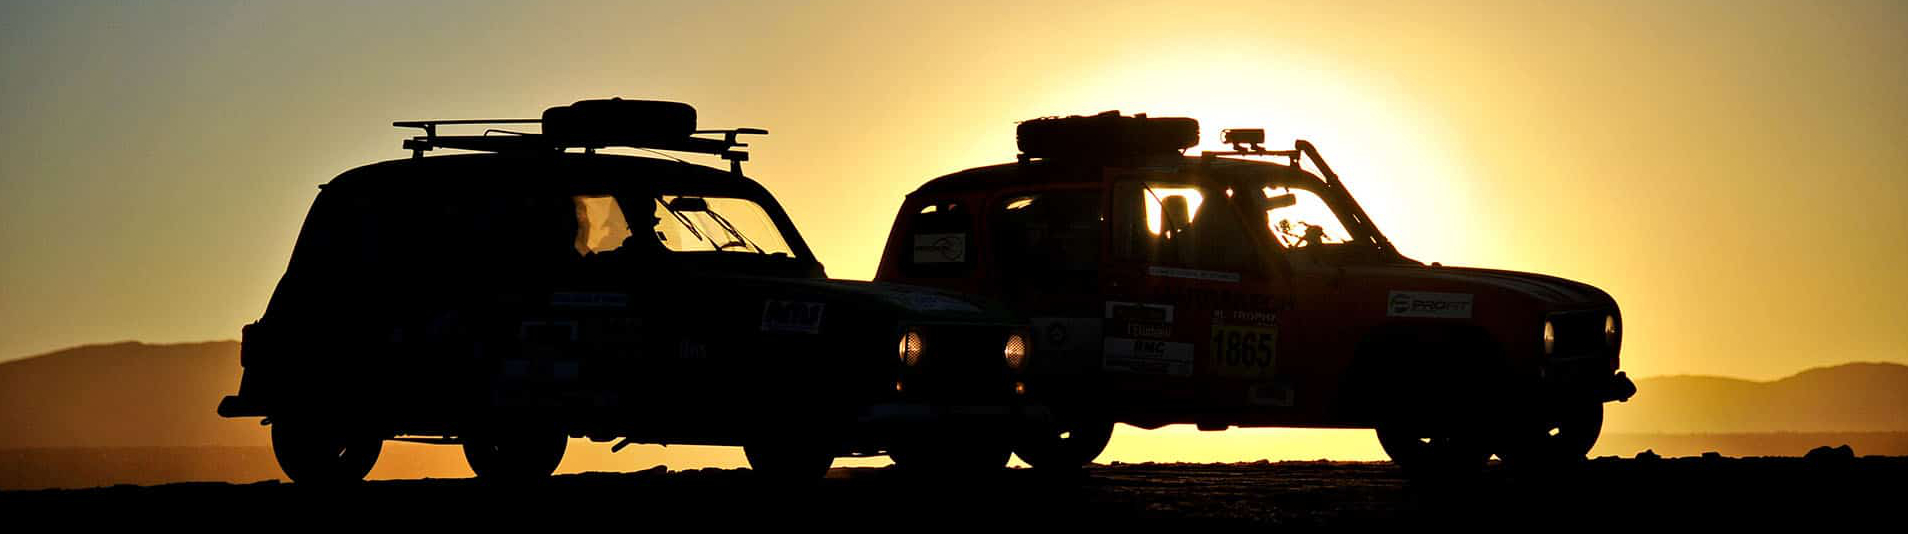
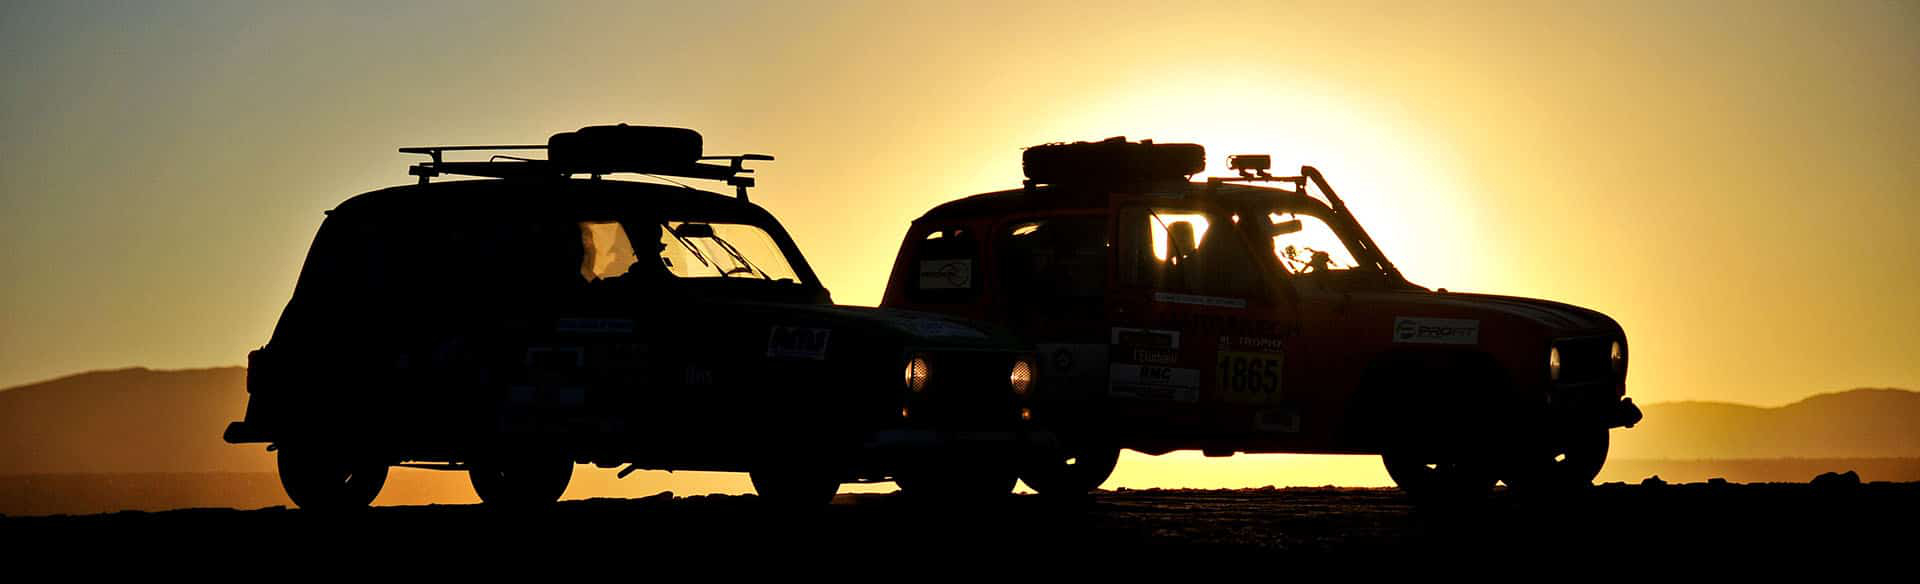
correction pb image transition

diff --git a/src/css/index.css b/src/css/index.css
@@ -114,7 +114,7 @@
 }
 
 .transition img{
-    width: 719px;
+    width: 50%;
     height: 100%;
 }
 
@@ -133,7 +133,6 @@
 
 .race {
     height: auto;
-    padding: 38px;
     width: 50%;
     text-align: center;
     background-color: #EFEFEF;
@@ -152,16 +151,18 @@
 .race .center p {
     font-family: "Raleway";
     text-align: right;
+    padding: 10px 38px;
 }
 
 .race .center p:first-child{
-    margin: 50px 0;
+    margin: 40px 0;
 }
 
 .race .center h3 {
     margin-top: 20px;
     font-family: "4L";
     text-align: right;
+    padding-right: 38px;
 }
 
 .raid img {
@@ -172,7 +173,9 @@
 .race .bottom{
     text-align: center;
     border: 2px solid #ffb000;
-    padding-bottom: 20px;
+    padding: 10px;
+    width: 60%;
+    margin: 0 auto;
 }
 
 .race .bottom p {
